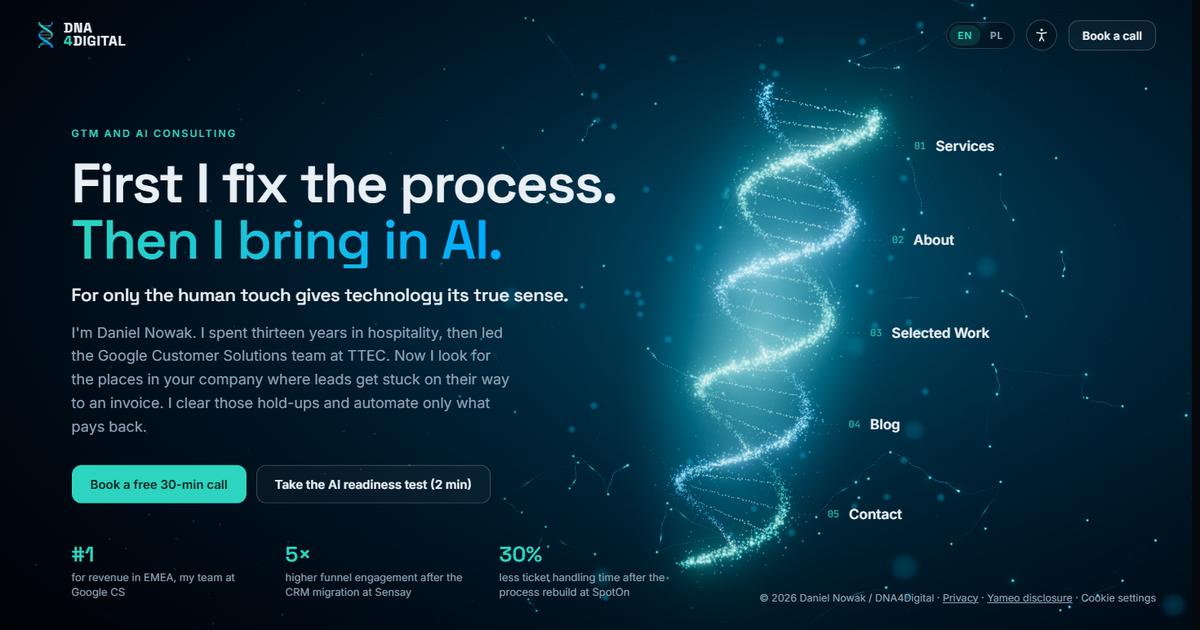
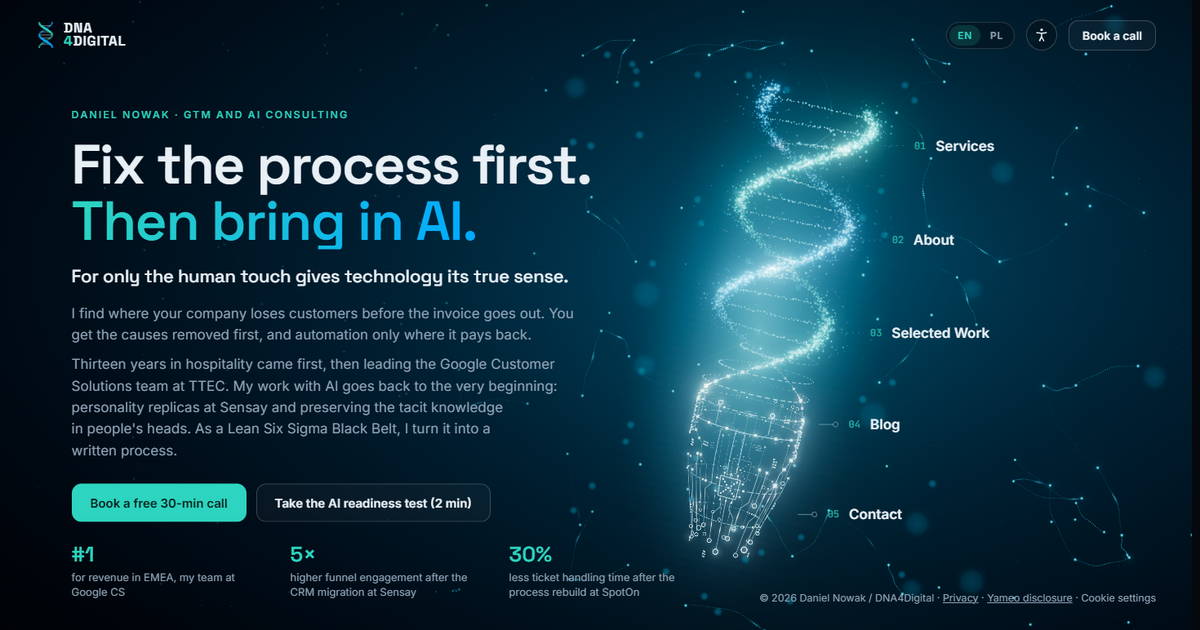
Rewrite the hero copy and add Daniel's AI background
The Polish hero text read like a translation of the English, and the
English headline repeated "I". The name moves to the eyebrow, so both
intros can open with the visitor's problem. They now also cover the work
on personality replicas at Sensay, tacit knowledge and the Lean Six Sigma
Black Belt.

The longer intro is two blocks in a wider column at 17px. Stats hide below
1280px wide, because at 1100px the intro ran into them. The phone text
stays short, so the helix and menu links keep their room.

diff --git a/src/styles/global.css b/src/styles/global.css
@@ -62,12 +62,14 @@ img { max-width: 100%; height: auto; }
 .hero h1 .grad { display: block; width: fit-content; }
 /* The motto answers the headline ("Then I bring in AI. For only..."), so it sits right under it. */
 .hero .motto { font: 500 clamp(17px, 1.5vw, 22px)/1.3 var(--display); letter-spacing: -.01em; text-wrap: balance; margin: 0 0 18px; }
-.hero .intro { color: var(--muted); font-size: 18px; line-height: 1.6; text-wrap: pretty; margin: 0 0 32px; max-width: 540px; }
+.hero .intro { color: var(--muted); font-size: 17px; line-height: 1.55; text-wrap: pretty; margin: 0 0 28px; max-width: 620px; }
+.hero .intro .long { display: block; }
+.hero .intro .long + .long { margin-top: 10px; }
 .hero .intro .short { display: none; }
 .ctas, .btnrow { display: flex; gap: 12px; flex-wrap: wrap; }
 /* Each caption names where the result came from, so it wraps onto two lines. */
 .proof { display: flex; flex-wrap: wrap; gap: 16px 32px; }
-.proof > div { max-width: 230px; }
+.proof > div { max-width: 236px; }
 .proof b { display: block; font: 600 26px var(--display); color: var(--teal); }
 .proof span { display: block; margin-top: 2px; font-size: 13px; line-height: 1.4; color: var(--muted); }
 .homefoot { font-size: 12.5px; color: var(--muted); }
@@ -241,7 +243,7 @@ html.js:not(.no-gl) .homefoot { position: fixed; right: 44px; bottom: 30px; z-in
 html.js.zoomed .hero { opacity: 0; transform: translate(-40px, -50%); pointer-events: none; }
 html.js.zoomed .proof, html.js.zoomed .homefoot { opacity: 0; pointer-events: none; }
 /* Below 1440px the stats row reaches under the footer links, so the footer moves beneath it, as on phones. */
-@media (1080px < width < 1440px) {
+@media (1279px < width < 1440px) {
   html.js:not(.no-gl) .proof { bottom: 46px; }
   html.js:not(.no-gl) .homefoot { right: auto; left: 6%; bottom: 14px; }
 }
@@ -291,7 +293,7 @@ html.js:not(.no-gl) .panel { container-type: inline-size; }
 @keyframes hero-in { from { opacity: 0; transform: translate(-24px, -50%); } }
 @keyframes fade-in { from { opacity: 0; } }
 
-@media (max-width: 1080px), (max-height: 760px) {
+@media (max-width: 1279px), (max-height: 760px) {
   html.js:not(.no-gl) .proof { display: none; }
 }
 
